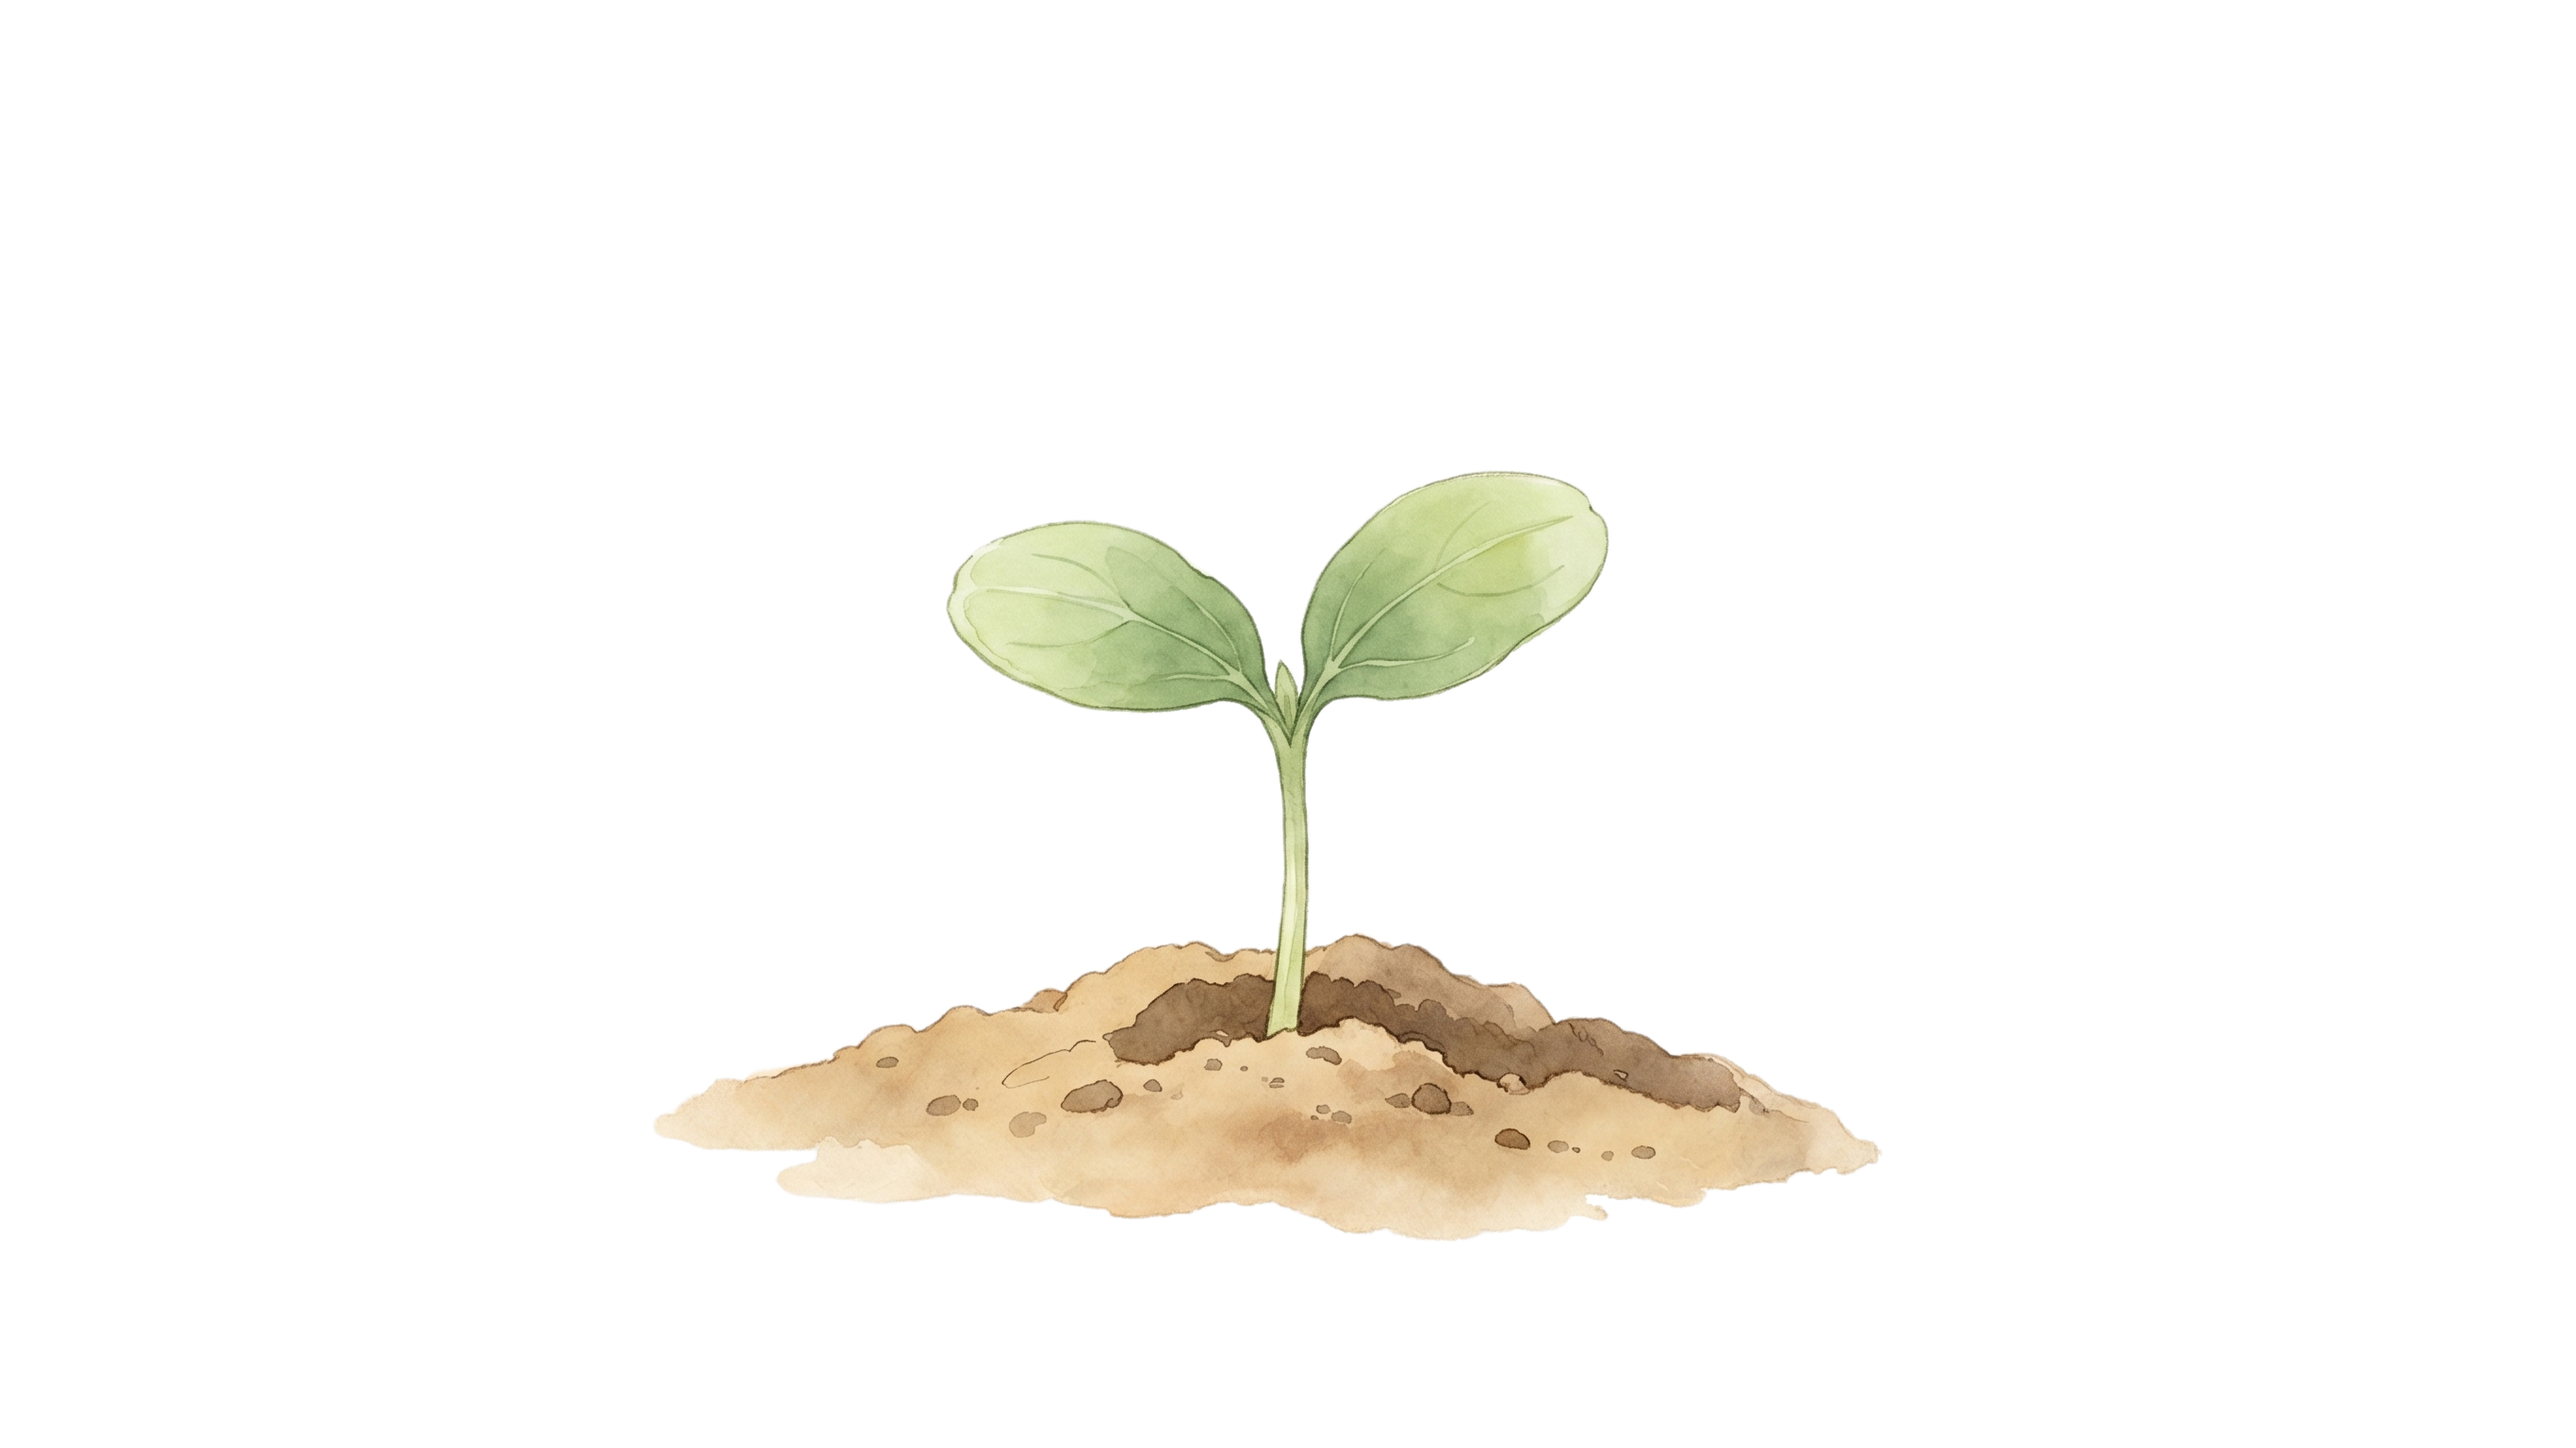
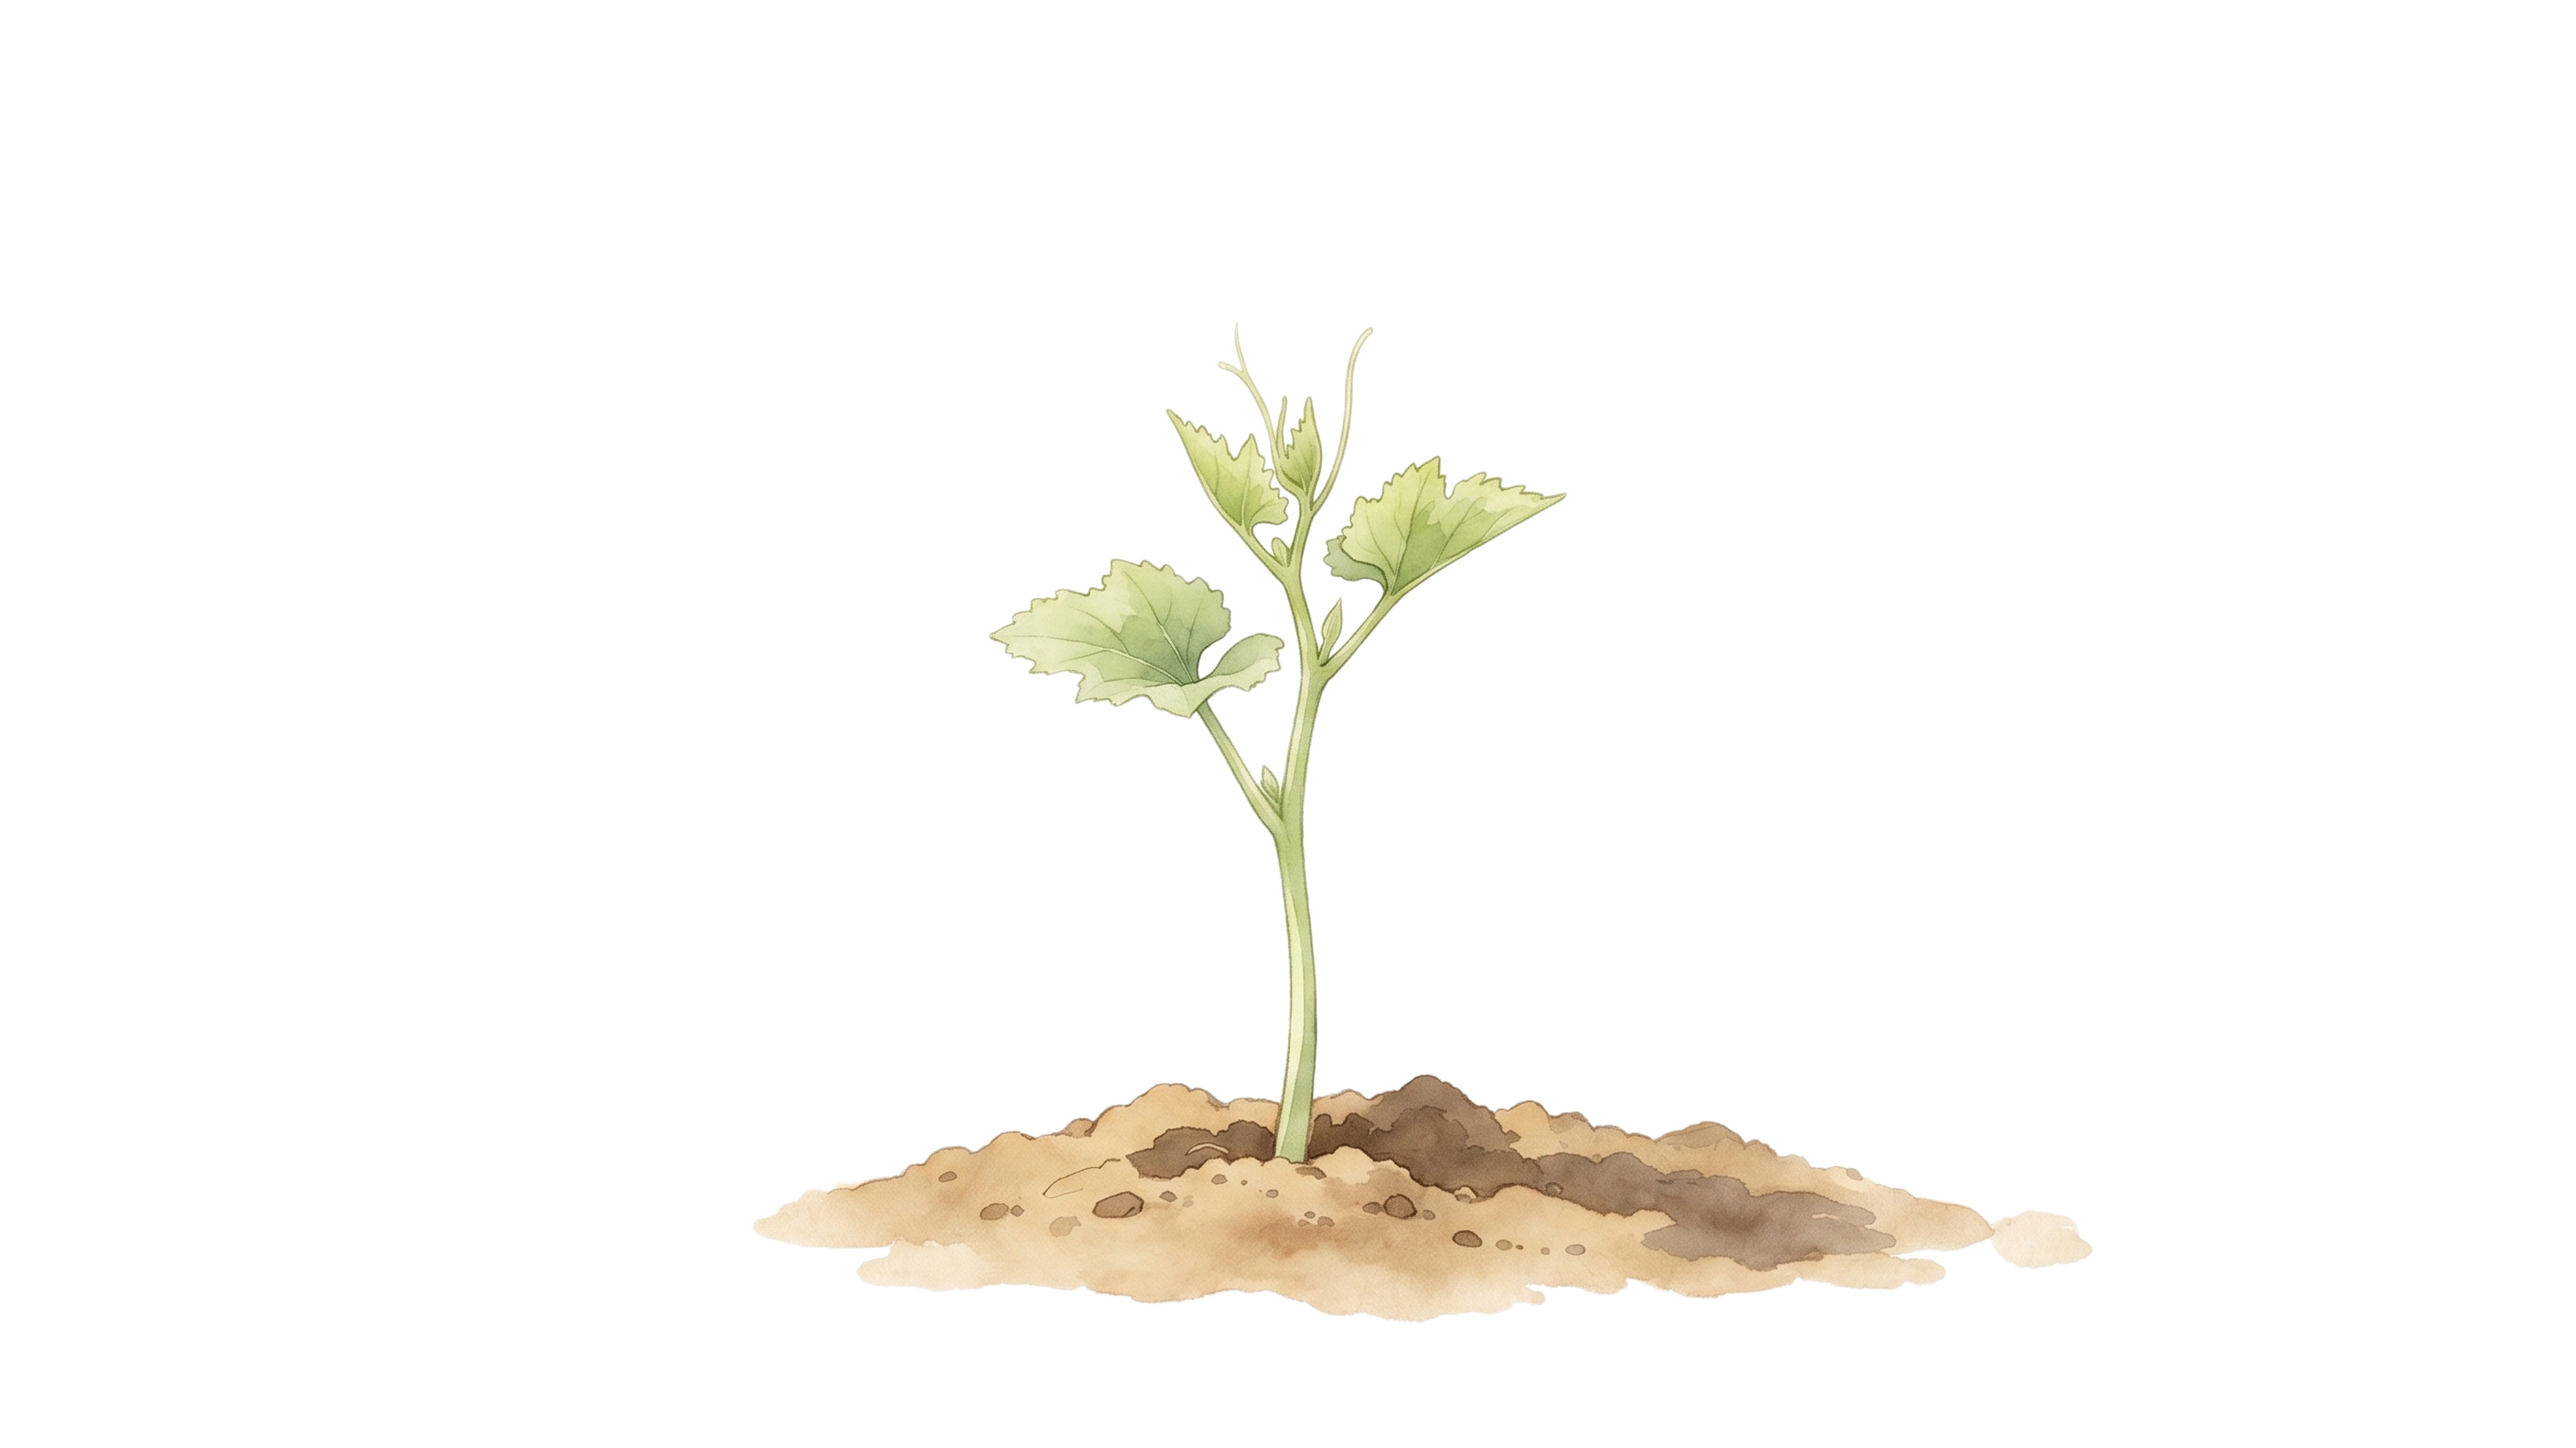
feat:制定植物生长规则，修改沙盘模式，现在沙盘模式初始代码量为6000，可以模拟植物生长全过程

Changed region(s): [[0.2489, 0.25, 0.8089, 0.9375]]

diff --git a/electron-app/src/renderer/src/App.vue b/electron-app/src/renderer/src/App.vue
@@ -38,8 +38,20 @@ let offActivityUpdate = null
 const todayPassed = ref(0)
 const todayErrors = ref(0)
 
+const CODE_LINES_PER_REWARD = 50
+const RESOURCE_PER_REWARD = 20
+const WATER_COST = 20
+const MAX_WATERINGS_PER_TERM = 120
+const MAX_WATER_REWARDED_LINES = MAX_WATERINGS_PER_TERM * CODE_LINES_PER_REWARD
+const SANDBOX_CODE_LINES = 6000
+
+const plantWaterByTerm = ref({})
+const sandboxSnapshot = ref(null)
+const suppressResourceRewards = ref(false)
+
 function applyActivityUpdate(data) {
   if (!data || typeof data !== 'object') return
+  if (isSandboxActive.value) return
 
   if (typeof data.codeAdded === 'number' && Number.isFinite(data.codeAdded)) {
     codeLines.value = Math.max(0, codeLines.value + data.codeAdded)
@@ -78,8 +90,24 @@ function feedCat() {
 }
 
 function waterPlant() {
+  if (waterStock.value < WATER_COST) {
+    message.value = `🚿 水滴不足，浇水需要 ${WATER_COST} 份水滴！`
+    setTimeout(() => message.value = '🐱 睡觉中...', 2000)
+    return
+  }
+
   waterCount.value++
-  waterStock.value = Math.max(waterStock.value - 10, 0)
+  waterStock.value = Math.max(waterStock.value - WATER_COST, 0)
+
+  const termKey = currentTermPinyin.value
+  const currentWaterings = plantWaterByTerm.value[termKey] || 0
+  if (currentWaterings < MAX_WATERINGS_PER_TERM) {
+    plantWaterByTerm.value = {
+      ...plantWaterByTerm.value,
+      [termKey]: currentWaterings + 1
+    }
+  }
+
   message.value = '🌱 咕噜咕噜...水好甜！'
   setTimeout(() => message.value = '🐱 睡觉中...', 2000)
 }
@@ -116,18 +144,30 @@ function toggleStats() {
 }
 
 const activeGridCount = computed(() => {
-  return Math.min(Math.floor(codeLines.value / 100), 5)
+  return Math.min(Math.floor(codeLines.value / CODE_LINES_PER_REWARD), 5)
 })
 
-const highestRewardedThreshold = ref(activeGridCount.value)
+const rewardedCodeThreshold = computed(() => {
+  return Math.max(0, Math.floor(codeLines.value / CODE_LINES_PER_REWARD))
+})
 
-watch(activeGridCount, (newValue) => {
+const highestRewardedThreshold = ref(rewardedCodeThreshold.value)
+
+watch(rewardedCodeThreshold, (newValue) => {
+  if (suppressResourceRewards.value) return
+
   if (newValue > highestRewardedThreshold.value) {
-    const gainedThresholds = newValue - highestRewardedThreshold.value
-    const bonus = gainedThresholds * 20
+    const oldValue = highestRewardedThreshold.value
+    const gainedThresholds = newValue - oldValue
+    const bonus = gainedThresholds * RESOURCE_PER_REWARD
+    const maxWaterThreshold = Math.floor(MAX_WATER_REWARDED_LINES / CODE_LINES_PER_REWARD)
+    const gainedWaterThresholds = Math.max(
+      0,
+      Math.min(newValue, maxWaterThreshold) - Math.min(oldValue, maxWaterThreshold)
+    )
 
     foodStock.value += bonus
-    waterStock.value += bonus
+    waterStock.value += gainedWaterThresholds * RESOURCE_PER_REWARD
     highestRewardedThreshold.value = newValue
   }
 })
@@ -177,6 +217,92 @@ const effectiveDate = computed(() => {
   return isValidDateObj(candidate) ? candidate : now.value
 })
 
+function getRewardThresholdForLines(lines) {
+  return Math.max(0, Math.floor(lines / CODE_LINES_PER_REWARD))
+}
+
+function getSandboxResourceStock(lines) {
+  return getRewardThresholdForLines(lines) * RESOURCE_PER_REWARD
+}
+
+function getSandboxWaterStock(lines) {
+  const maxWaterThreshold = Math.floor(MAX_WATER_REWARDED_LINES / CODE_LINES_PER_REWARD)
+  return Math.min(getRewardThresholdForLines(lines), maxWaterThreshold) * RESOURCE_PER_REWARD
+}
+
+function clonePlantWaterState() {
+  return { ...plantWaterByTerm.value }
+}
+
+function captureCurrentState() {
+  return {
+    mockDateString: mockDateString.value,
+    codeLines: codeLines.value,
+    catExp: catExp.value,
+    todayPassed: todayPassed.value,
+    todayErrors: todayErrors.value,
+    feedCount: feedCount.value,
+    waterCount: waterCount.value,
+    foodStock: foodStock.value,
+    waterStock: waterStock.value,
+    highestRewardedThreshold: highestRewardedThreshold.value,
+    plantWaterByTerm: clonePlantWaterState()
+  }
+}
+
+function setCodeLinesWithoutRewards(lines) {
+  suppressResourceRewards.value = true
+  codeLines.value = lines
+  highestRewardedThreshold.value = getRewardThresholdForLines(lines)
+  nextTick(() => {
+    suppressResourceRewards.value = false
+  })
+}
+
+function getTermPinyinForDate(date) {
+  try {
+    const termName = (getSolarTerm(date) || '').trim()
+    return solarTermMap[termName] || DEFAULT_PLANT_TERM
+  } catch {
+    return DEFAULT_PLANT_TERM
+  }
+}
+
+function applySandboxState(date) {
+  const termKey = getTermPinyinForDate(date)
+
+  setCodeLinesWithoutRewards(SANDBOX_CODE_LINES)
+  foodStock.value = getSandboxResourceStock(SANDBOX_CODE_LINES)
+  waterStock.value = getSandboxWaterStock(SANDBOX_CODE_LINES)
+  feedCount.value = 0
+  waterCount.value = 0
+  todayPassed.value = 0
+  todayErrors.value = 0
+  plantWaterByTerm.value = {
+    [termKey]: 0
+  }
+}
+
+function restoreSnapshot(snapshot) {
+  if (!snapshot) return
+
+  mockDateString.value = snapshot.mockDateString
+  catExp.value = snapshot.catExp
+  todayPassed.value = snapshot.todayPassed
+  todayErrors.value = snapshot.todayErrors
+  feedCount.value = snapshot.feedCount
+  waterCount.value = snapshot.waterCount
+  foodStock.value = snapshot.foodStock
+  waterStock.value = snapshot.waterStock
+  plantWaterByTerm.value = { ...snapshot.plantWaterByTerm }
+  suppressResourceRewards.value = true
+  codeLines.value = snapshot.codeLines
+  highestRewardedThreshold.value = snapshot.highestRewardedThreshold
+  nextTick(() => {
+    suppressResourceRewards.value = false
+  })
+}
+
 function openTimeMachine() {
   const parsed = parseYmdString(mockDateString.value)
   const base = parsed ? makeLocalDate(parsed.y, parsed.m, parsed.d) : now.value
@@ -219,7 +345,13 @@ function applyTimeMachine() {
     return
   }
 
+  if (!sandboxSnapshot.value) {
+    sandboxSnapshot.value = captureCurrentState()
+  }
+
+  const sandboxDate = makeLocalDate(y, m, d)
   mockDateString.value = `${y}-${pad2(m)}-${pad2(d)}`
+  applySandboxState(sandboxDate)
   isTimeMachineOpen.value = false
   timeMachineError.value = ''
 
@@ -228,6 +360,8 @@ function applyTimeMachine() {
 }
 
 function exitTimeMachine() {
+  restoreSnapshot(sandboxSnapshot.value)
+  sandboxSnapshot.value = null
   mockDateString.value = null
   isTimeMachineOpen.value = false
 
@@ -286,6 +420,18 @@ const solarTermMap = {
   '大雪': 'daxue', '冬至': 'dongzhi', '小寒': 'xiaohan', '大寒': 'dahan'
 }
 
+const DEFAULT_PLANT_TERM = 'xiazhi'
+const DEFAULT_PLANT_STAGE = 1
+const plantImageModules = import.meta.glob('./assets/*/stage*.png', {
+  eager: true,
+  import: 'default'
+})
+
+const currentTermPinyin = computed(() => {
+  const termName = (currentSolarTerm.value || '').trim()
+  return solarTermMap[termName] || DEFAULT_PLANT_TERM
+})
+
 const currentBgUrl = computed(() => {
   const termName = (currentSolarTerm.value || '').trim();
   const pinyin = solarTermMap[termName];
@@ -296,7 +442,19 @@ const currentBgUrl = computed(() => {
   return new URL('./assets/initial_background.png', import.meta.url).href;
 })
 
-const plantStyleConfig = {
+function getPlantStageByWaterings(waterings) {
+  if (waterings >= 120) return 4
+  if (waterings >= 60) return 3
+  if (waterings >= 30) return 2
+  return 1
+}
+
+const currentPlantStage = computed(() => {
+  const waterings = plantWaterByTerm.value[currentTermPinyin.value] || 0
+  return getPlantStageByWaterings(waterings)
+})
+
+const plantImageConfig = {
   default: {
     width: '95px',
     left: '200px',
@@ -305,52 +463,73 @@ const plantStyleConfig = {
     transformOrigin: 'bottom center'
   },
   xiazhi: {
-    width: '100px',
-    left: '450px',
-    bottom: '160px',
-    transform: 'scale(5.5)', 
-    transformOrigin: 'bottom center'
+    default: {
+      width: '100px',
+      left: '450px',
+      bottom: '160px',
+      transform: 'scale(5.5)', 
+      transformOrigin: 'bottom center'
+    },
+    stage1: {},
+    stage2: {},
+    stage3: {},
+    stage4: {}
   },
   lixia: {
-    width: '100px', 
-    left: '450px',
-    bottom: '160px',
-    transform: 'scale(4)',
-    transformOrigin: 'bottom center'
+    default: {
+      width: '100px', 
+      left: '450px',
+      bottom: '160px',
+      transform: 'scale(4)',
+      transformOrigin: 'bottom center'
+    },
+    stage1: {},
+    stage2: {},
+    stage3: {},
+    stage4: {}
   },
   lichun: {
-    width: '100px', 
-    left: '450px',
-    bottom: '160px',
-    transform: 'scale(4)',
-    transformOrigin: 'bottom center'
+    default: {
+      width: '100px', 
+      left: '450px',
+      bottom: '160px',
+      transform: 'scale(4)',
+      transformOrigin: 'bottom center'
+    },
+    stage1: {},
+    stage2: {},
+    stage3: {},
+    stage4: {}
   }
 }
 
-const currentPlant = computed(() => {
-  const termName = (currentSolarTerm.value || '').trim()
-  let pinyin = solarTermMap[termName] 
-  
-  if (!pinyin || !plantStyleConfig[pinyin]) {
-    pinyin = 'default'
+function getPlantImageUrl(termKey, stage) {
+  const imageKey = `./assets/${termKey}/stage${stage}.png`
+  const fallbackKey = `./assets/${DEFAULT_PLANT_TERM}/stage${DEFAULT_PLANT_STAGE}.png`
+
+  if (plantImageModules[imageKey]) {
+    return plantImageModules[imageKey]
   }
 
-  let imgSrc
-  try {
-    const imgPinyin = pinyin === 'default' ? 'xiazhi' : pinyin
-    imgSrc = new URL(`./assets/${imgPinyin}/stage6.png`, import.meta.url).href
-  } catch (e) {
-    imgSrc = new URL(`./assets/xiazhi/stage6.png`, import.meta.url).href
-  }
+  console.warn(`[CS Valley] Missing plant image: ${imageKey}, fallback to ${fallbackKey}`)
+  return plantImageModules[fallbackKey] || new URL('./assets/xiazhi/stage1.png', import.meta.url).href
+}
+
+const currentPlant = computed(() => {
+  const termKey = currentTermPinyin.value
+  const stage = currentPlantStage.value
+  const termConfig = plantImageConfig[termKey] || {}
+  const stageConfig = termConfig[`stage${stage}`] || {}
 
   const style = {
-    ...plantStyleConfig.default,
-    ...plantStyleConfig[pinyin]
+    ...plantImageConfig.default,
+    ...(termConfig.default || {}),
+    ...stageConfig
   }
 
   return {
-    src: imgSrc,
-    style: style
+    src: getPlantImageUrl(termKey, stage),
+    style
   }
 })
 
